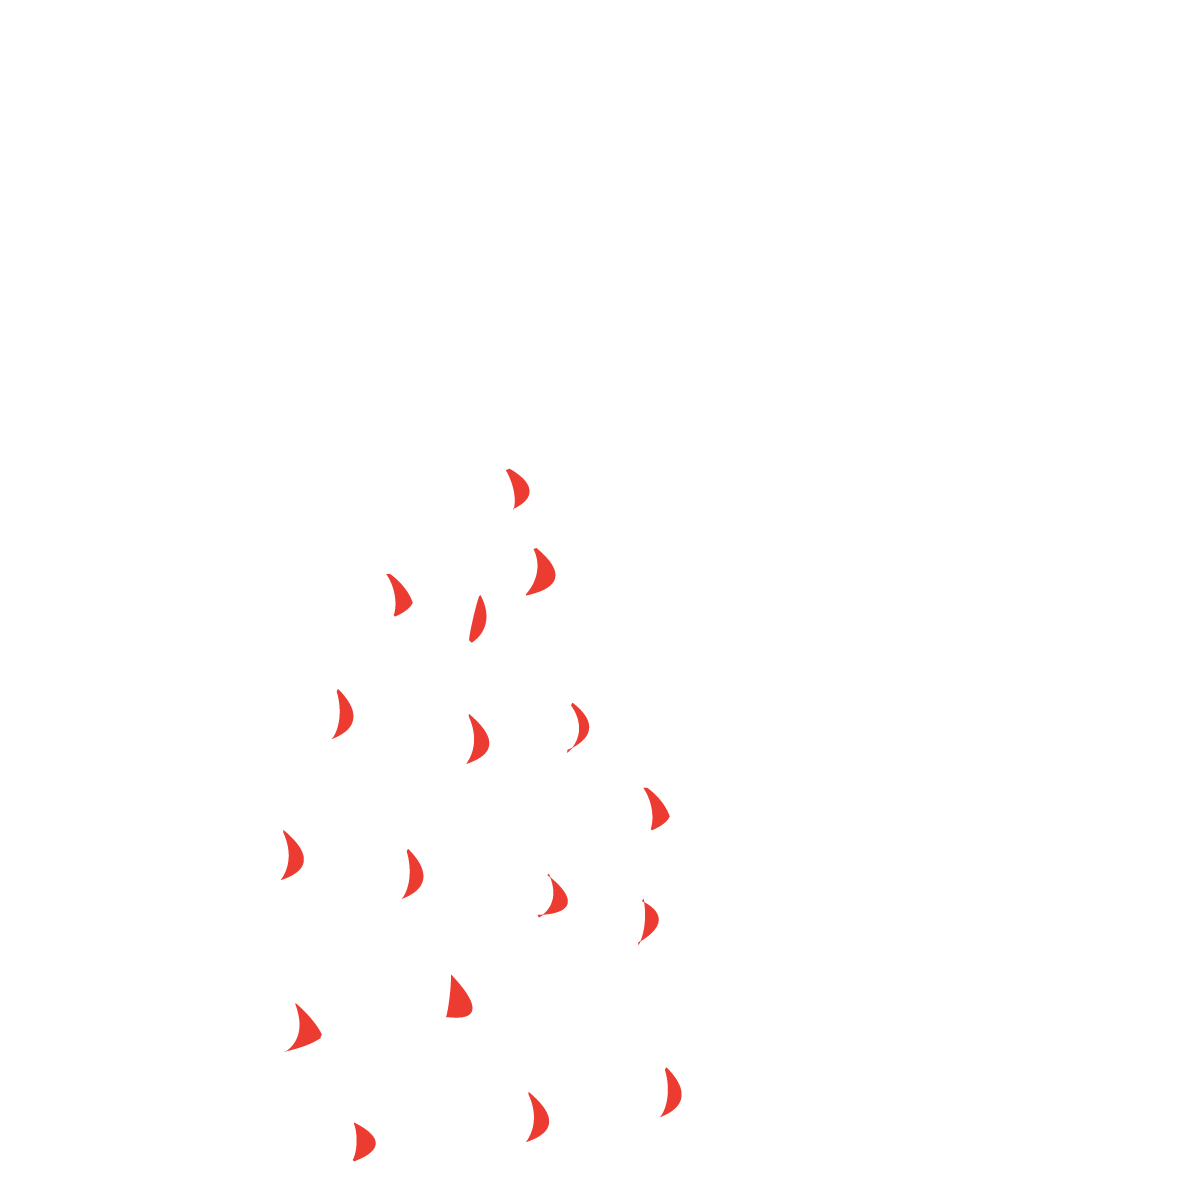
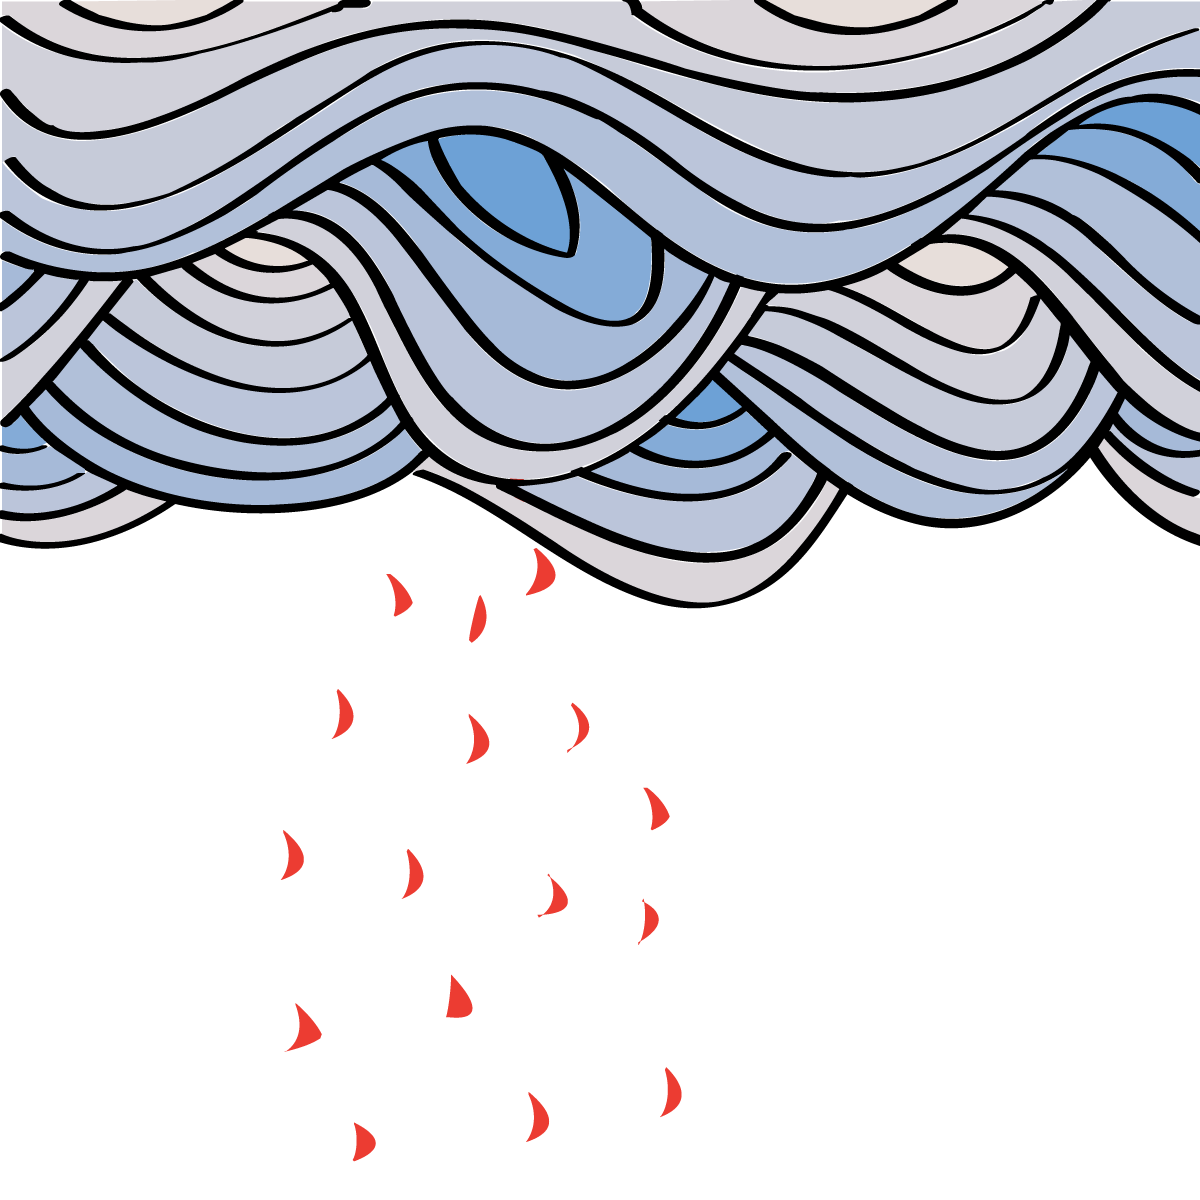
eureka

diff --git a/main.css b/main.css
@@ -6,8 +6,7 @@
 }
 #temp{
   font-family: 'Monoton', sans-serif;
-  font-size: 80px;
-}
+  font-size: 80px;}
 
 .hi{
   background: transparent;
@@ -15,9 +14,8 @@
   font-weight: bold;
 }
 
-}
 .clouds{
-  background: url(Weather-Icons-clouds.png) no-repeat center center fixed ;
+  background: url(Weather-Icons-clouds.png)no-repeat center center fixed;
   background-size: cover;
   background-attachment: scroll;
 }
@@ -31,7 +29,7 @@ background-attachment: scroll;
 .thunderstorm{
  background: url(Weather-Icons-thunder.png) no-repeat center center fixed;
  background-size: cover;
-background-attachment: scroll;
+ background-attachment: scroll;
 }
 
 .drizzle{
@@ -53,22 +51,32 @@ background-attachment: scroll;
 }
 
 .mist{
+  background: url(Weather-Icons-drizzle.png) no-repeat center center fixed;
+  background-size: cover;
+  background-attachment: scroll;
+}
+
+.fog{
  background: url(Weather-Icons-fog.png) no-repeat center center fixed;
  background-size: cover;
 background-attachment: scroll;
 }
 
- .breezy{
-   background: url(Weather-Icons-breezy.png) no-repeat center center absolute;
+.haze{
+ background: url(Weather-Icons-fog.png) no-repeat center center fixed;
+ background-size: cover;
+background-attachment: scroll;
+ /*.breezy{
+   background: url(Weather-Icons-breezy.png) no-repeat center center ;
    background-size: contain;
    background-attachment: scroll;
  }
 
 .windy{
-  background: url(Weather-Icons-wind.png) no-repeat center center absolute;
+  background: url(Weather-Icons-wind.png) no-repeat center center fixed;
   background-size: contain;
   background-attachment: scroll;
-}
+}*/
 /*
  .cold{
    background: url(Back_Cold.png) no-repeat center center fixed;

diff --git a/index.html b/index.html
@@ -39,7 +39,7 @@
 
 <div class="flex flex-column items-center center ma0 w-100">
 
-    <div class="ma0 absolute-fill center w-100 clouds clear thunderstorm drizzle rain snow atmosphere breezy windy"></div>
+    <!-- <div class="center w-100 clouds clear thunderstorm drizzle rain snow atmosphere breezy windy"></div> -->
     <!-- <div class="flex center atmosphere breezy windy"></div> -->
 
     <div class="mt7 pa4 bottom bg-white">
